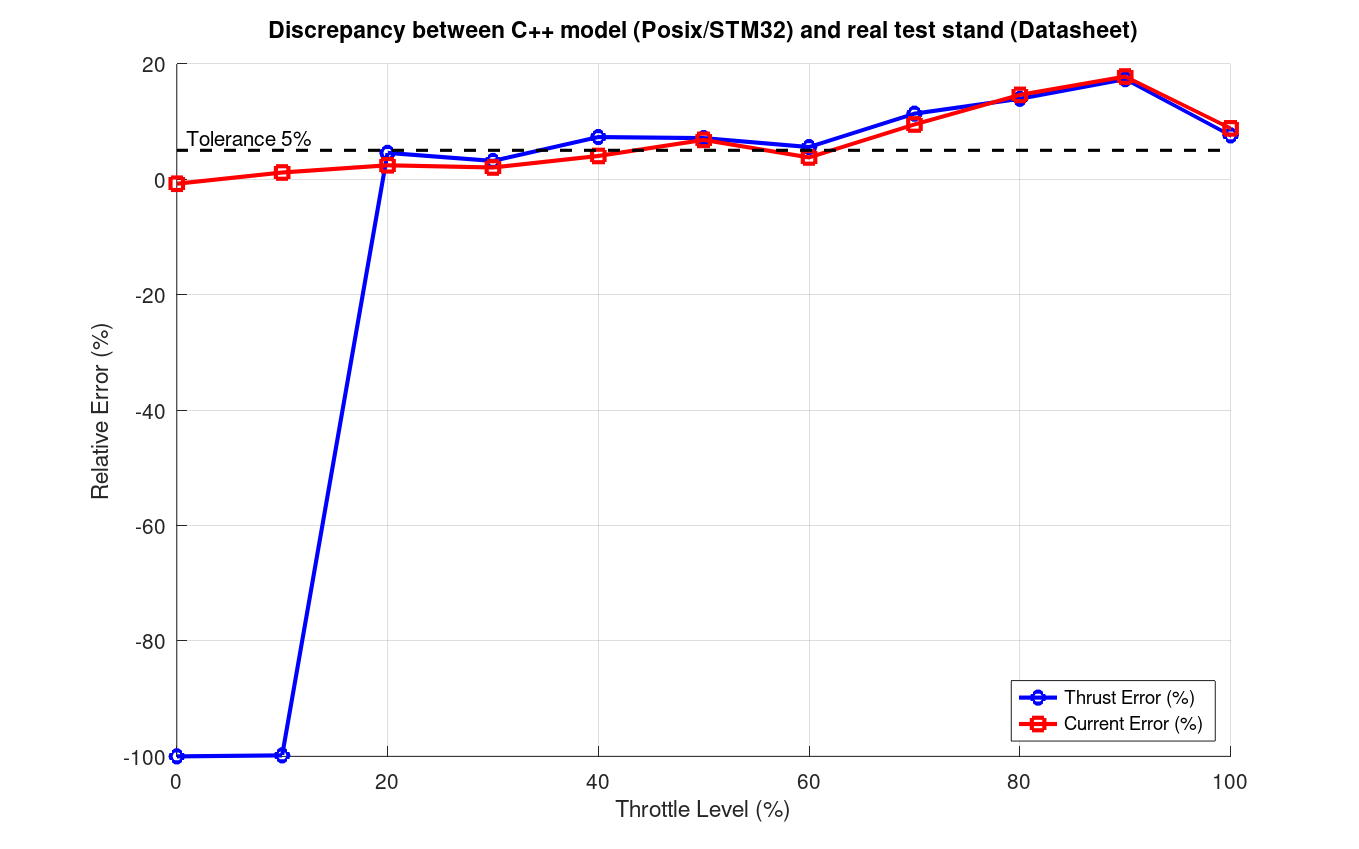
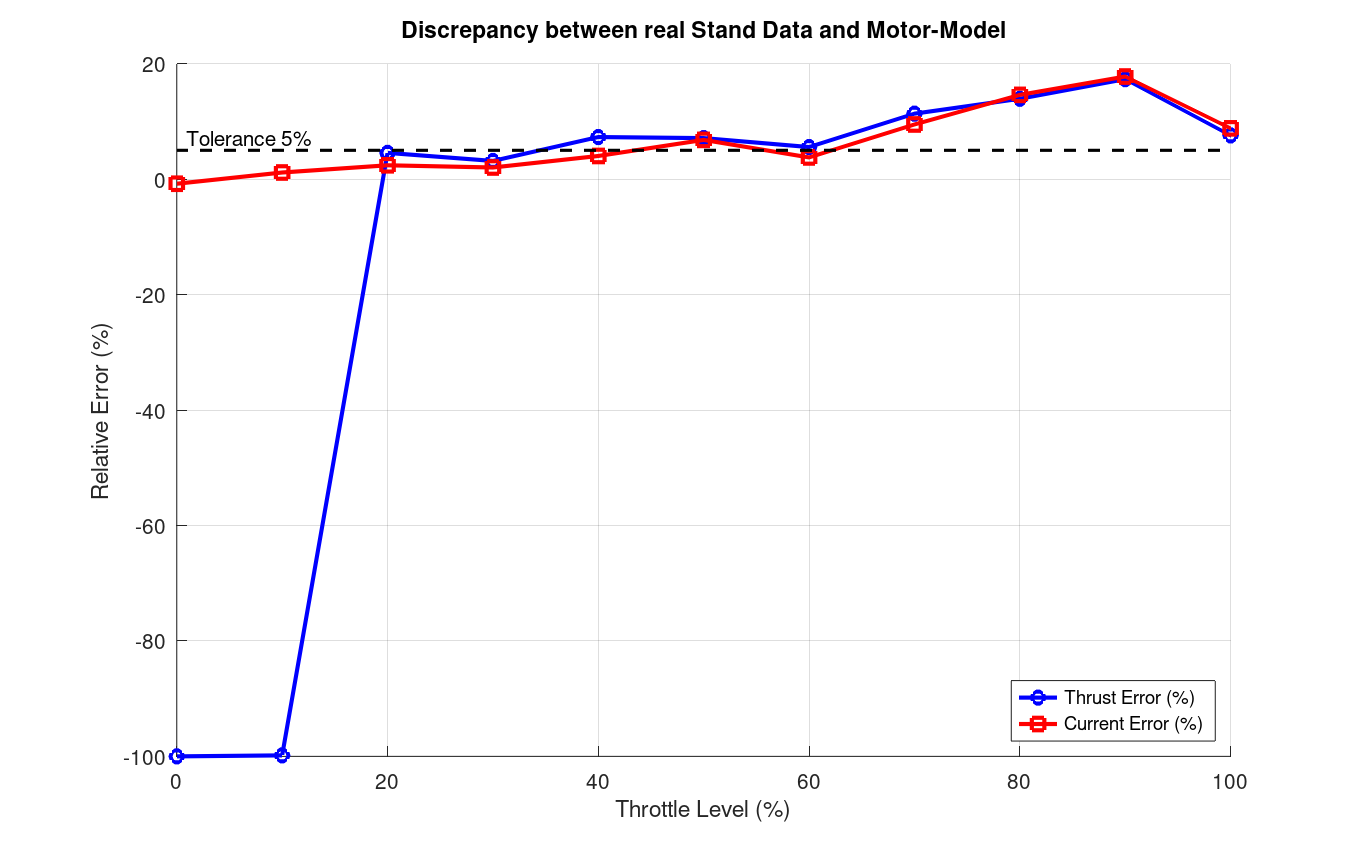
aded generation in octave for VALIDATION.md

Changed region(s): [[0.1854, 0.0, 0.8344, 0.0612]]

diff --git a/octave/validation/generate_validation_sum.m b/octave/validation/generate_validation_sum.m
@@ -1,0 +1,82 @@
+function [] = generate_validation_sum(filename_validation_sum, ...
+                                      filename_text_sum, ...
+                                      filename_motor_properties, ...                        
+                                      THROTTLE_TEST, err_thrust_pct, err_current_pct)
+
+    % open finale protocol file for writing
+    fid = fopen(filename_validation_sum, 'w');
+    if fid == -1
+        error('Datei konnte nicht geöffnet werden: %s', filename_validation_sum);
+    end
+
+    % open the test summary text file for reading
+    test_text_fid = fopen(filename_text_sum, 'r');
+    if test_text_fid == -1
+        warning('Test summary file not found: %s', filename_text_sum);
+        test_content_available = false;
+    else
+        test_content_available = true;
+    end
+
+    % generate the current date and time for the protocol
+    gen_time = datestr(now, 'yyyy-mm-dd HH:MM:SS');
+    
+    fprintf(fid, '# Validation Protocol & Test Results\n\n');
+    fprintf(fid, '**Generated on:** %s\n', gen_time);
+    fprintf(fid, '\n## 1. HIL Test Summary (POSIX/STM32)\n\n'); 
+    fprintf(fid, ' ### Motor-Model Test Bench: BrotherHobby 1404 KV4600+T4030 (2S)\n\n');   
+
+    % add csv table from motor_properties to fid    
+    % 'Delimiter', ';'
+    raw_text = fileread(filename_motor_properties);
+    clean_text = strrep(raw_text, '"', '');
+    lines = strsplit(clean_text, '\n');
+
+    fprintf(fid, '| ID | Parameter | Value | Unit |\n');
+    fprintf(fid, '|----|-----------|-------|------|\n');
+
+        for i = 2:length(lines) % Начинаем со 2-й строки, чтобы пропустить шапку
+            line = strtrim(lines{i});
+            if isempty(line), continue; end
+    
+            parts = strsplit(line, ';');
+            if length(parts) >= 4
+                fprintf(fid, '| %s | %s | %s | %s |\n', ...
+                strtrim(parts{1}), strtrim(parts{2}), strtrim(parts{3}), strtrim(parts{4}));
+            end
+        end
+
+    fprintf(fid, '\n\n');
+    
+    % add text from test_text to fid
+    while ~feof(test_text_fid)
+        line = fgetl(test_text_fid);
+        if ischar(line) % Check if line is valid
+            fprintf(fid, '%s\n', line);
+        end
+    end
+    fclose(test_text_fid);    
+    fprintf(fid, '\n\n');
+
+    fprintf(fid, '## 2. Accuracy Analysis (Octave vs POSIX/STM32)\n\n');
+    fprintf(fid, '**Max Thrust Error:** %.2f%%\n', max(err_thrust_pct));
+    fprintf(fid, '**Max Current Error:** %.2f%%\n\n', max(err_current_pct));
+
+    fprintf(fid, '| Throttle | Thrust Error %% | Current Error %% |\n');
+    fprintf(fid, '|----------|----------------|----------------|\n');
+    for i = 1:length(THROTTLE_TEST)
+        fprintf(fid, '| %.2f | %.2f | %.2f|\n', THROTTLE_TEST(i), err_thrust_pct(i), err_current_pct(i));
+    end
+    fprintf(fid, '\n');
+    
+    % show plots of errors
+    fprintf(fid, '![Discrepancy between real stand data and Motor-Model](%s)\n', './octave/plots/plot4_errors.png');
+    fprintf(fid, '\n');
+
+    fprintf('Report saved to: %s\n', filename_validation_sum);
+    fprintf(fid, '*Document Version: v.0.3.0 | Part of LIGHT-MBSE-PIPELINE-SKELETON*\n');  
+    
+    
+    fclose(fid);
+
+end

diff --git a/octave/validation.m b/octave/validation.m
@@ -28,7 +28,7 @@ plot(THROTTLE_TEST * 100, err_thrust_pct, '-ob', 'LineWidth', 2, 'DisplayName', 
 % Current error line (red, with markers)
 plot(THROTTLE_TEST * 100, err_current_pct, '-sr', 'LineWidth', 2, 'DisplayName', 'Current Error (%)');
 
-title('Discrepancy between C++ model (Posix/STM32) and real test stand (Datasheet)');
+title('Discrepancy between real Stand Data and Motor-Model');
 xlabel('Throttle Level (%)');
 ylabel('Relative Error (%)');
 legend('Location', 'southeast');
@@ -40,3 +40,14 @@ hold off;
 
 % Optionally: Save the plot as an image for SPEC.md
 saveas(figure_1, fullfile(plot_dir, 'plot4_errors.png'));
+
+% Generate a Summary in the Validation.md
+filename_validation_sum = '../VALIDATION.md';
+filename_text_sum = '../logs/test_summary.txt';
+filename_motor_properties = '../references/Brother-Hobby-1404-4600KV-Properties.csv';
+generate_validation_sum(filename_validation_sum, ...
+                        filename_text_sum, ...
+                        filename_motor_properties, ...
+                        THROTTLE_TEST, err_thrust_pct, err_current_pct);
+
+printf("Validation analysis completed.\n");
